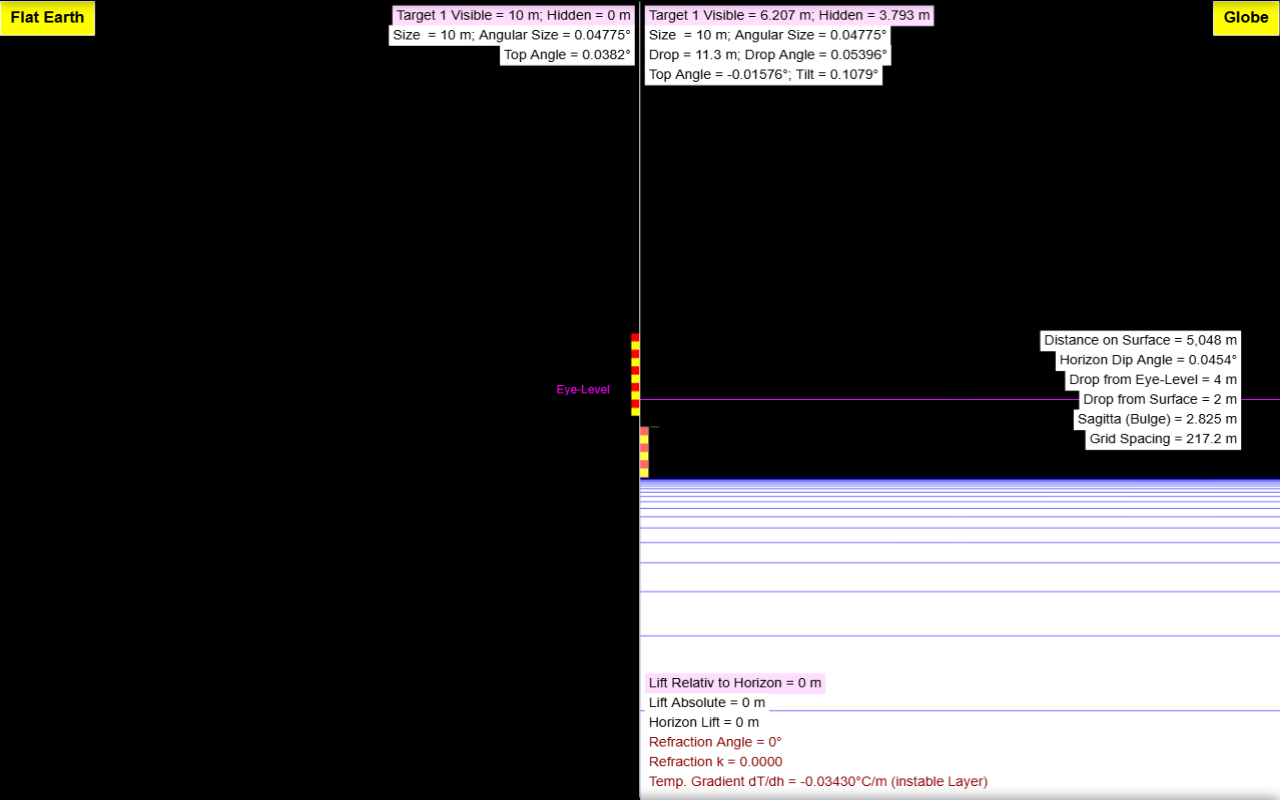
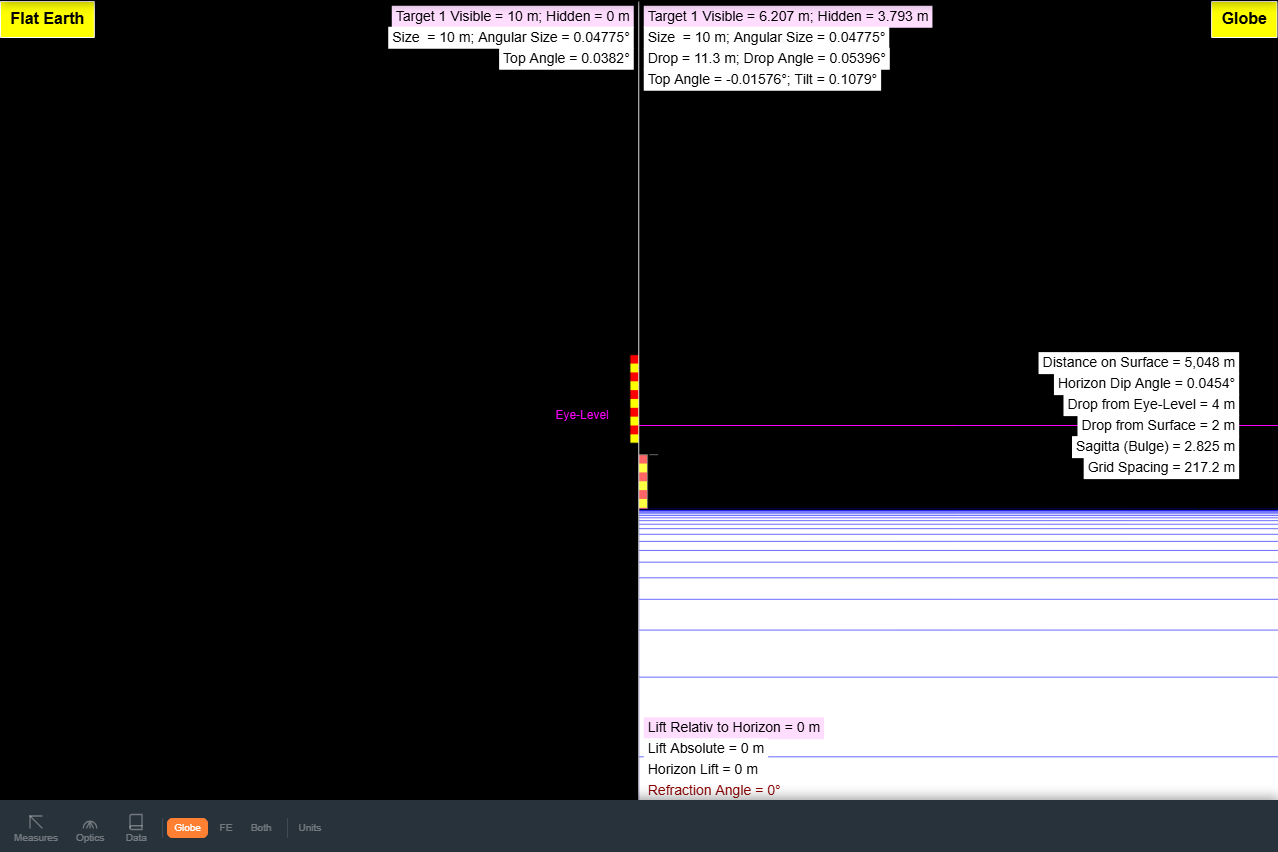
fix: canvas aspect-ratio deformation, Flat Earth black render, fed bottom bar missing
- Remove forced height:100%!important on canvas — let jsg control its own
  pixel buffer size (width × aspect%). Container fills viewport; ResizeObserver
  triggers redraw on resize.
- Add ResizeObserver + screenshot handler to earth-drop-calc ui.js
- Add missing #bottom-bar CSS rule in fed-wabis-v2 (was completely absent)
- Update render snapshots to match corrected canvas dimensions

diff --git a/apps/fed-wabis-v2/styles/styles.css b/apps/fed-wabis-v2/styles/styles.css
@@ -406,14 +406,11 @@ body {
   line-height: 0;
 }
 
-/* jsg sets position, top, left, width, height on the canvas via inline styles.
-   jsg defaults the canvas to width × 56% (aspect-locked), which can't fill a tall
-   phone viewport. Force the canvas + clipping box to fill #FeGraph; jsg's
-   AutoScalePix + the ResizeObserver (ui.js → CheckResizeRegularly) then re-render
-   the pixel buffer at the real box size (no stretching). */
+/* jsg creates the canvas at width × 56% (aspect). Let jsg control the canvas
+   size — the container fills the viewport, and a ResizeObserver (ui.js) triggers
+   a redraw when the container changes size. No forced height on the canvas. */
 .JsGraph-Canvas { display: block; }
-#FeGraph .JsGraph-ClippingBox,
-#FeGraph .JsGraph-Canvas {
+#FeGraph .JsGraph-ClippingBox {
   width: 100% !important;
   height: 100% !important;
   inset: 0 !important;
@@ -561,6 +558,27 @@ body {
 .pb-btn.pb-reset:hover {
   color: var(--bar-text);
 }
+
+/* =============================================================
+   Bottom bar — fixed at viewport bottom
+   ============================================================= */
+#bottom-bar {
+  position: fixed;
+  bottom: 0; left: 0; right: 0;
+  height: var(--bottom-bar-h);
+  display: flex;
+  align-items: center;
+  gap: 4px;
+  padding: 0 6px;
+  background: var(--bar-bg);
+  backdrop-filter: blur(12px);
+  -webkit-backdrop-filter: blur(12px);
+  z-index: 1000;
+  box-shadow: 0 -2px 12px rgba(0,0,0,0.4);
+  overflow-x: auto;
+  scrollbar-width: none;
+}
+#bottom-bar::-webkit-scrollbar { display: none; }
 
 /* Layer toggles */
 .layer-section {

diff --git a/apps/earth-drop-calc/js/ui.js b/apps/earth-drop-calc/js/ui.js
@@ -98,6 +98,32 @@ export function init() {
       Tabs.Select('CurveSettingsTabs', 5);
     }
   });
+
+  /* ── ResizeObserver: trigger jsg redraw when container changes size ─── */
+  if (window.ResizeObserver && window.graph) {
+    try {
+      const container = window.graph.ContainerDiv;
+      if (container) {
+        new ResizeObserver(() => {
+          if (window.graph && window.graph.CheckResizeRegularly) {
+            window.graph.CheckResizeRegularly();
+          }
+        }).observe(container);
+      }
+    } catch (e) { /* ignore */ }
+  }
+
+  /* ── Screenshot export ─── */
+  document.getElementById('btn-screenshot')?.addEventListener('click', () => {
+    try {
+      const canvas = window.graph && window.graph.Canvas;
+      if (!canvas) return;
+      const a = document.createElement('a');
+      a.download = 'earth-drop-calc.png';
+      a.href = canvas.toDataURL('image/png');
+      a.click();
+    } catch (e) { /* ignore */ }
+  });
 }
 
 if (document.readyState === 'loading') {

diff --git a/apps/earth-drop-calc/styles/calculator.css b/apps/earth-drop-calc/styles/calculator.css
@@ -225,11 +225,10 @@
   background: #000;
   z-index: 1;
 }
-/* jsg locks the canvas to width × 66.67% (aspect), which can't fill a tall phone.
-   Force it to fill #JsGraph1; AutoScalePix + jsg's resize poll re-render at the
-   real box size (no stretching). */
-#JsGraph1 .JsGraph-ClippingBox,
-#JsGraph1 .JsGraph-Canvas {
+/* jsg creates the canvas at width × 66.67% (aspect). Let jsg control the canvas
+   size — the container fills the viewport, and a ResizeObserver (ui.js) triggers
+   a redraw when the container changes size. No forced height on the canvas. */
+#JsGraph1 .JsGraph-ClippingBox {
   width: 100% !important;
   height: 100% !important;
   inset: 0 !important;